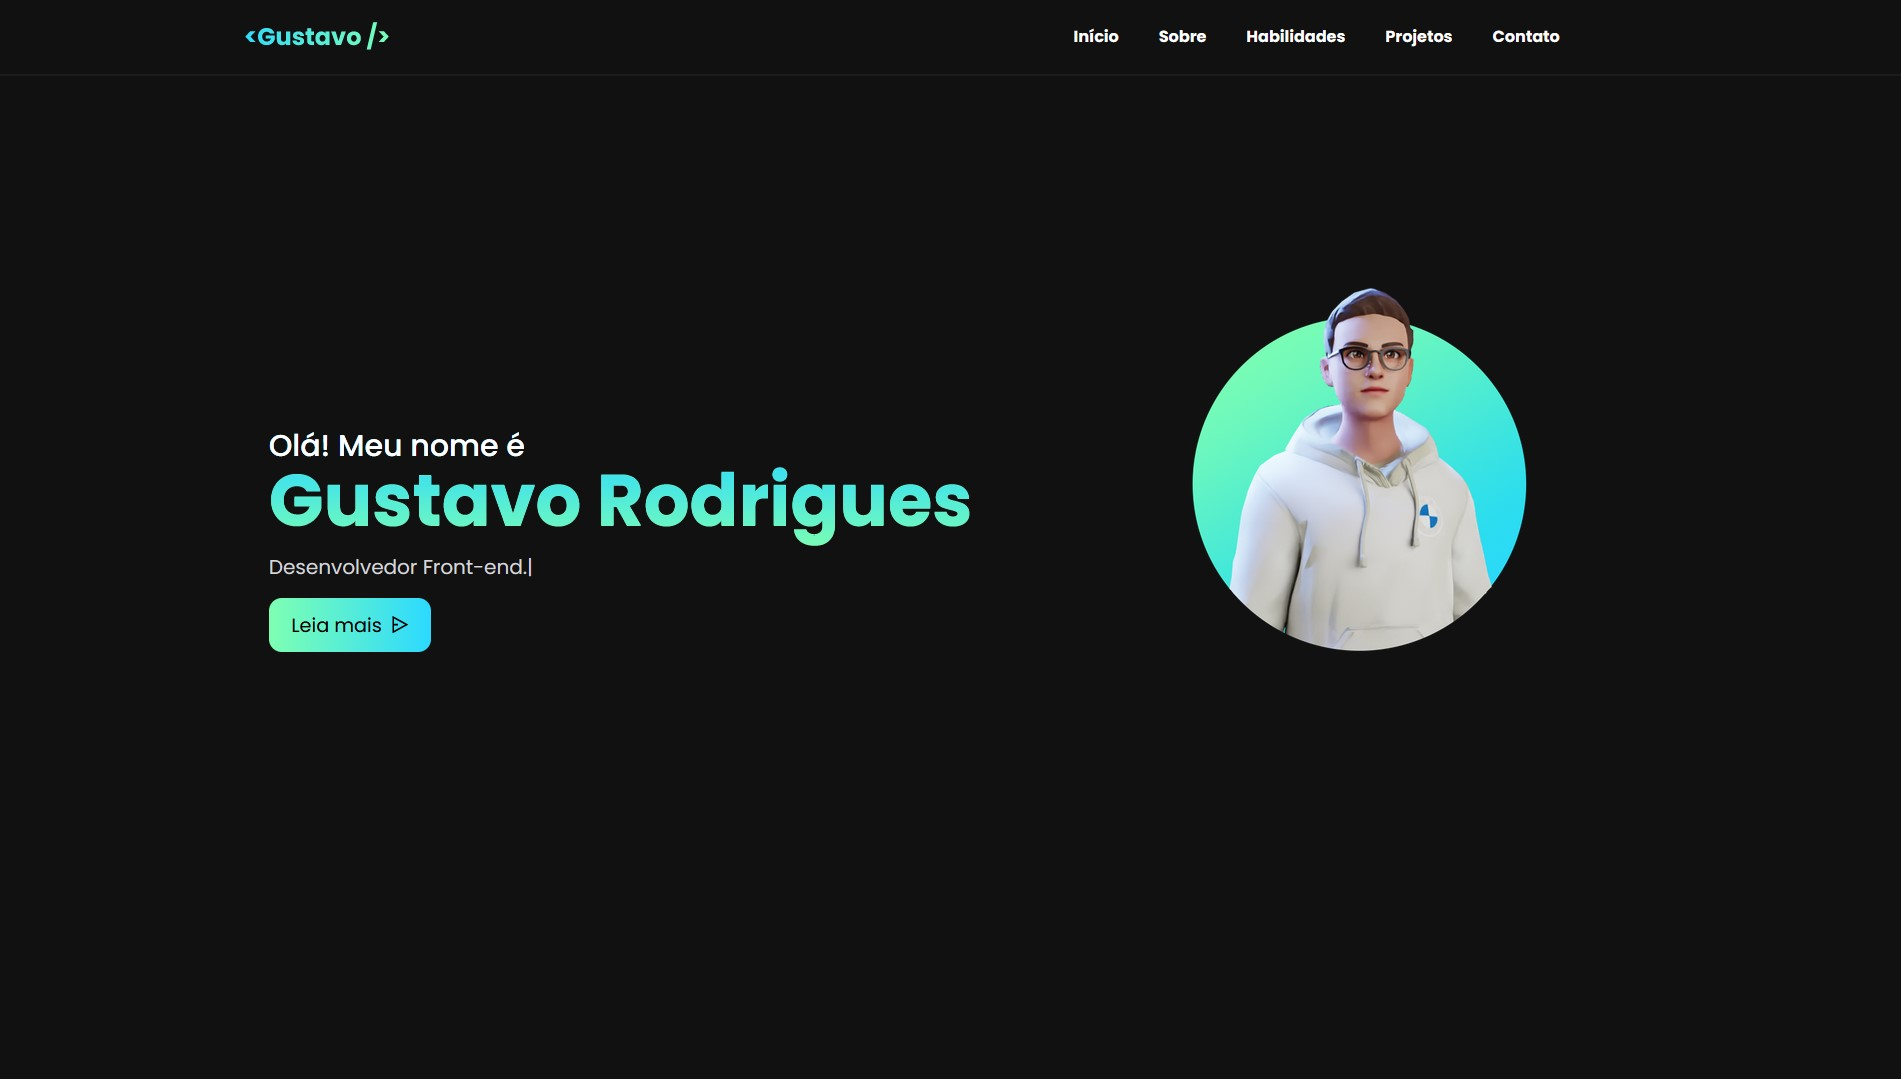
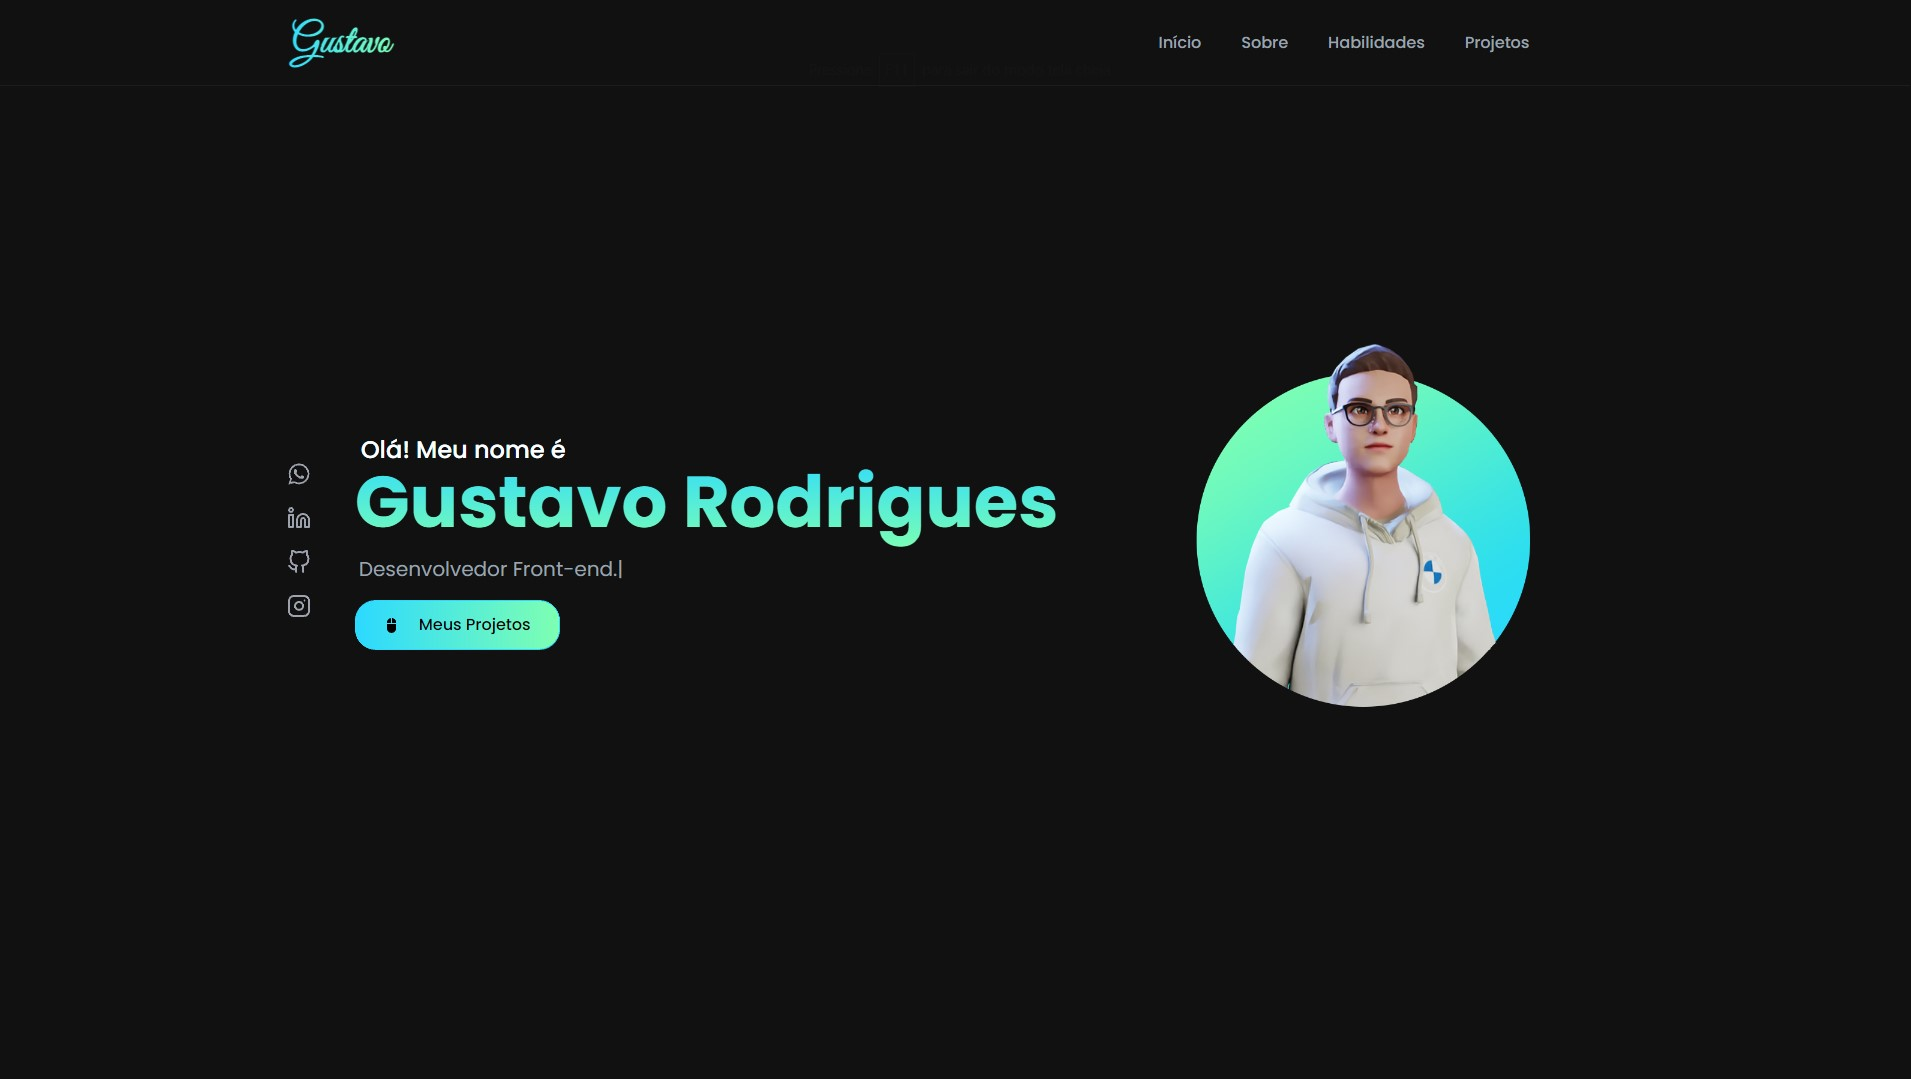
Alterações

diff --git a/src/components/Footer.jsx b/src/components/Footer.jsx
@@ -2,6 +2,7 @@ import React from 'react'
 
 // Icons
 import { FaWhatsapp } from 'react-icons/fa'
+import { AiOutlineMail } from 'react-icons/ai'
 import { FiLinkedin, FiGithub, FiInstagram } from 'react-icons/fi'
 
 // ScrollToTop
@@ -17,23 +18,28 @@ const Footer = () => {
         },
         {
             id: 2,
+            href: 'mailto:gumartinsR1201@gmail.com',
+            icon: <AiOutlineMail />,
+        },
+        {
+            id: 3,
             href: 'https://www.linkedin.com/in/guhrodrigues/',
             icon: <FiLinkedin />,
         },
         {
-            id: 3,
+            id: 4,
             href: 'https://github.com/projects-gustavo',
             icon: <FiGithub />,
         },
         {
-            id: 4,
+            id: 5,
             href: 'https://www.instagram.com/gustavinrm/',
             icon: <FiInstagram />,
         },
     ]
-    
+
     return (
-        <footer className="bg-backgroundSecondary p-8 xl:p-20 sm:mt-12 lg:mt-52">
+        <footer className="bg-backgroundSecondary p-12 xl:p-20 sm:mt-12 lg:mt-52">
             <ScrollToTop
                 smooth top="20"
                 className="flex justify-center items-center bg-gradient-to-r from-primary to-secondary shadow-none"
@@ -41,30 +47,32 @@ const Footer = () => {
                 width="20px"
                 height="20px"
             />
-            <p className="text-center text-white mb-4 font-medium">Entre em contato</p>
-            <div className="flex items-center justify-center border-b border-neutral-800 pb-8">
-                {socials.map(({ id, href, icon }) => (
-                    <nav
-                        key={id}
-                        className="flex items-center bg-backgroundSecondary"
-                    >
-                        <ul className="px-2">
-                            <a
-                                href={href}
-                                className="block p-4 rounded-xl text-white bg-backgroundPrimary hover:bg-gradient-to-r from-primary to-secondary hover:text-black duration-300"
-                                target="_blank">
-                                <div className="scale-150">
-                                    {icon}
-                                </div>
-                            </a>
-                        </ul>
-                    </nav>
-                ))}
-            </div>
-            <div className="mt-10">
-                <p className="text-color text-center font-medium">
-                    2023 © <span className="text-transparent bg-clip-text bg-gradient-to-b from-primary to-secondary">Gustavo Rodrigues</span>
-                </p>
+            <div>
+                <div className="flex items-center justify-center mb-3">
+                    {socials.map(({ id, href, icon }) => (
+                        <nav
+                            key={id}
+                            className="flex items-center bg-backgroundSecondary"
+                        >
+                            <ul className="px-2">
+                                <a
+                                    href={href}
+                                    className="block p-2 rounded-xl text-gray-400 duration-300"
+                                    target="_blank">
+                                    <div className="scale-[1.40]">
+                                        {icon}
+                                    </div>
+                                </a>
+                            </ul>
+                        </nav>
+                    ))}
+                </div>
+                <div>
+                    <h1 className="font-signature text-center text-5xl p-4">Gustavo</h1>
+                    <p className="text-color text-center font-medium mt-3">
+                        2023 © Gustavo Rodrigues. Todos os direitos reservados.
+                    </p>
+                </div>
             </div>
         </footer>
     )

diff --git a/src/components/Home.jsx b/src/components/Home.jsx
@@ -5,8 +5,9 @@ import avatar from '../../public/assets/img/avatar.png'
 
 // Icons
 import { FaWhatsapp } from 'react-icons/fa'
+import { AiOutlineMail } from 'react-icons/ai'
 import { FiLinkedin, FiGithub, FiInstagram } from 'react-icons/fi'
-import { UilMessage } from '@iconscout/react-unicons'
+import { BsFillMouse2Fill } from 'react-icons/bs'
 
 // TypeWriter
 import TypeWriter from 'typewriter-effect'
@@ -21,16 +22,21 @@ const Home = () => {
         },
         {
             id: 2,
+            href: 'mailto:gumartinsR1201@gmail.com',
+            icon: <AiOutlineMail />,
+        },
+        {
+            id: 3,
             href: 'https://www.linkedin.com/in/guhrodrigues/',
             icon: <FiLinkedin />,
         },
         {
-            id: 3,
+            id: 4,
             href: 'https://github.com/projects-gustavo',
             icon: <FiGithub />,
         },
         {
-            id: 4,
+            id: 5,
             href: 'https://www.instagram.com/gustavinrm/',
             icon: <FiInstagram />,
         },
@@ -80,9 +86,9 @@ const Home = () => {
                     </p>
                     <div className="flex sm:justify-center md:justify-start">
                         <a href="#projects">
-                            <button className="flex text-center items-center lg:text-[18px] font-medium border-2 gap-2 border-primary bg-transparent py-3 px-6 text-primary rounded-[0.5rem] hover:bg-gradient-to-r from-primary to-secondary hover:text-black duration-300">
-                                Projetos
-                                <UilMessage />
+                            <button className="flex text-center items-center lg:text-[16px] gap-5 font-medium py-3 px-7 rounded-[1.3rem] duration-300 border border-primary text-black bg-gradient-to-r from-primary to-secondary hover:bg-none hover:text-primary">
+                                <BsFillMouse2Fill size={15} />
+                                Meus Projetos
                             </button>
                         </a>
                     </div>

diff --git a/src/components/Header.jsx b/src/components/Header.jsx
@@ -8,12 +8,12 @@ const Header = () => {
     const [showMenu, setShowMenu] = useState(false)
 
     return (
-        <header className="fixed flex items-center justify-between w-full py-4 h-[8vh] z-50 border-b-2 border-backgroundSecondary">
+        <header className="fixed flex items-center justify-between w-full py-4 h-[8vh] z-50 border-b border-backgroundSecondary">
             <div className="xl:w-1/3 2xl:w-[35.7%] text-center 2xl:mr-12">
                 <a
                     href="#home"
-                    className="sm:text-[18px] xl:text-2xl 2xl:text-2xl font-bold relative p-2 text-transparent bg-clip-text bg-gradient-to-r from-primary to-secondary">
-                    &lt;Gustavo /&gt;
+                    className="sm:text-[1.8rem] lg:text-3xl xl:text-4xl 2xl:text-[2.5rem] font-signature font-semibold relative p-2 text-transparent bg-clip-text bg-gradient-to-r from-primary to-secondary">
+                    Gustavo
                 </a>
             </div>
             <nav className={`fixed w-[80%] md:w-[40%] xl:w-full h-full ${showMenu ? "left-0" : "-left-full"} top-0 xl:static flex-1 flex flex-col xl:flex-row items-center justify-center gap-10 transition-all duration-500 z-50 xl:ml-12 2xl:ml-12`}>

diff --git a/index.html b/index.html
@@ -9,6 +9,7 @@
   <link rel="preconnect" href="https://fonts.googleapis.com">
   <link rel="preconnect" href="https://fonts.gstatic.com" crossorigin>
   <link href="https://fonts.googleapis.com/css2?family=Poppins:wght@400;500;700&display=swap" rel="stylesheet">
+  <link href="https://fonts.googleapis.com/css2?family=Great+Vibes&display=swap" rel="stylesheet">
 </head>
 
 <body>

diff --git a/src/index.css b/src/index.css
@@ -30,11 +30,11 @@
   }
 
   li {
-    @apply list-none text-color font-semibold
+    @apply list-none text-gray-400 font-medium
   }
 
   li a {
-    @apply text-white hover:text-transparent hover:bg-clip-text hover:bg-gradient-to-b from-primary to-secondary
+    @apply hover:text-transparent hover:bg-clip-text hover:bg-gradient-to-b from-primary to-secondary
   }
 }
 
